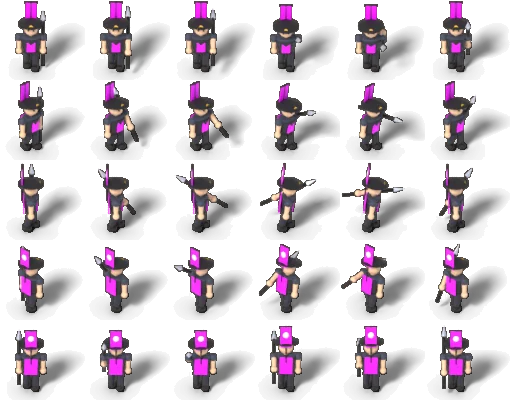
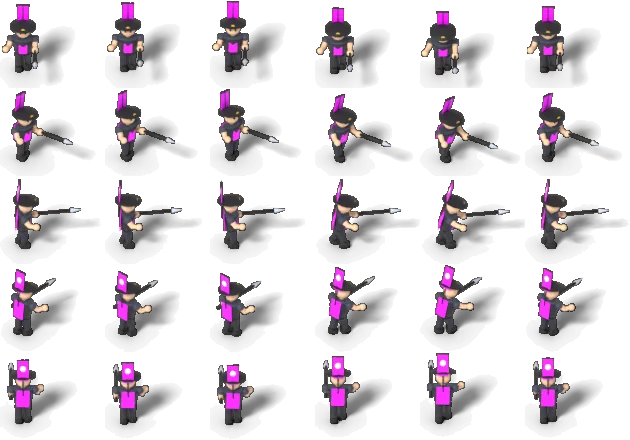
Prototipo 2026-11-24 · v72 (etapas de tropa: el gaucho del facón pasa a lancero y el nobushi a ashigaru; lanzas con estocada; jinetes que atacan sin mover el caballo)

diff --git a/index.html b/index.html
@@ -435,7 +435,8 @@ function iaPoblacion(ia) {
 function iaLimiteAldeanos(ia) { return 4 + 6 * ents.filter(e => e.equipo === ia.jug && e.tipo === CASA[ia.cultura] && vivo(e)).length; }
 function iaElegirUnidad(ia, permitidas = null) {
   // según su mezcla de tropas, entre las que puede entrenar ese edificio
-  const opciones = Object.entries(ia.mezcla).filter(([t]) => (!permitidas || permitidas.includes(t)) && desbloqueado(ia.jug, t));
+  const opciones = Object.entries(ia.mezcla).map(([t, w]) => [etapaActual(ia.jug, t), w])     // sin evolucionar, la etapa anterior
+    .filter(([t]) => (!permitidas || permitidas.includes(t)) && desbloqueado(ia.jug, t));
   const total = opciones.reduce((a, [, w]) => a + w, 0);
   if (!total) return null;
   let r = azar() * total, acum = 0;
@@ -475,8 +476,10 @@ function iaInvestigar(ia, dt) {
     if (t.length) { const x = t[Math.floor(azar() * t.length)]; if (!investigar(k, base, x, pagarIA) && !ia.quiereInv) ia.quiereInv = x.costo; }
   }
   for (const f of ents.filter(e => e.equipo === k && vivo(e) && e.obra == null && CIVS[ia.cultura].entrenaEn[e.tipo] && e.tipo !== PRINCIPAL[ia.cultura] && !e.investigando)) {
-    const m = mejorasDeTropa(k, f).filter(x => estadoInv(k, x)[0] === "lista" && (ia.mezcla[x.tropa] || 0) > 0);
-    if (m.length && azar() < 0.35) { const x = m[Math.floor(azar() * m.length)]; investigar(k, f, x, pagarIA); }
+    const m = mejorasDeTropa(k, f).filter(x => estadoInv(k, x)[0] === "lista" && (ia.mezcla[x.tropa] || ia.mezcla[TIPOS[x.tropa].evoluciona] || 0) > 0);
+    const evo = tiempo > 60 && m.find(x => x.desbloquea);               // pasar a la etapa siguiente va primero (pasado el primer minuto)
+    if (evo) { if (!investigar(k, f, evo, pagarIA) && !ia.quiereInv) ia.quiereInv = evo.costo; }
+    else if (m.length && azar() < 0.35) { const x = m[Math.floor(azar() * m.length)]; if (!x.desbloquea) investigar(k, f, x, pagarIA); }
   }
   for (const f of ents.filter(e => e.equipo === k && vivo(e) && e.obra == null && e.T.investiga && !e.investigando)) {
     const listas = INV.investigaciones.filter(x => x.rama === f.T.investiga && estadoInv(k, x)[0] === "lista");
@@ -659,7 +662,7 @@ let inicioElegido = "clasico", inicioUsado = "clasico";
 // velocidad del juego (para pruebas): la simulación corre varias veces por cuadro
 let velJuego = 1;
 const VEL_BASE = 1.8;                     // el ritmo "×1" (probado en celular: a 1 se sentía lento)
-const PALETA = ["aldeano", "lancero", "boleador", "jinete", "aldeano_jp", "enemigo", "arquero", "samurai", "samurai_jinete", "ariete", "catapulta"];
+const PALETA = ["aldeano", "facon", "lancero", "boleador", "jinete", "aldeano_jp", "nobushi", "enemigo", "arquero", "samurai", "samurai_jinete", "ariete", "catapulta"];
 const esJp = t => CIVS.jp.entrena.includes(t) || (!!TIPOS[t] && TIPOS[t].civ === "jp");
 let colocarTipo = null, colocarCant = 10;
 function generarMapa(tam, seed) {
@@ -991,7 +994,7 @@ function armarCreativo() {
   sep();
   for (const t of PALETA) {
     const eq = esJp(t) ? 1 : 0;
-    boton(TIPOS[t].nombre.replace(" a caballo", "<small>a caballo</small>").replace("Gaucho lancero", "Gaucho"), "eq" + eq,
+    boton(TIPOS[t].nombre.replace(" a caballo", "<small>a caballo</small>").replace("Gaucho lancero", "Lancero"), "eq" + eq,
       () => { colocarTipo = colocarTipo === t ? null : t; sel = []; armarCreativo(); if (colocarTipo) aviso("Tocá el suelo para colocar", 1200); }, colocarTipo === t);
   }
   sep();
@@ -1058,7 +1061,7 @@ function dibujarRangos() {
 // ------------------------------------------------------------------ métricas para reportes
 // Se juntan mientras se juega (barato: tres números por cuadro y un resumen por segundo) y se
 // envían a la base del prototipo con "Enviar reporte". Claude las lee desde su sesión.
-const VERSION_PROTO = "2026-11-23 · v71 (formaciones que miran hacia donde se desliza y sostienen su puesto; animales que se cazan con arco; paisanos que se reparten los recursos)";
+const VERSION_PROTO = "2026-11-24 · v72 (etapas de tropa: el gaucho del facón pasa a lancero y el nobushi a ashigaru; lanzas con estocada; jinetes que atacan sin mover el caballo)";
 const metr = { inicio: performance.now(), cuadros: [], segundos: [], todos: [], errores: [], trabas: [], golpesVacios: 0, caminaQuieto: 0, ultimoSeg: performance.now() };
 function medirCuadro(dtMs, simMs, dibMs) {
   metr.cuadros.push([dtMs, simMs, dibMs]);
@@ -3701,7 +3704,22 @@ function mejora(k, clave) {
   return base * multM(k, clave);
 }
 const costoEdificio = (k, tipo) => { const m = multM(k, "costoEdificios"); return Object.fromEntries(Object.entries(OBRA[tipo].costo).map(([r, v]) => [r, Math.round(v * m)])); };
-const desbloqueado = (k, tipo) => (INV.desbloqueo[tipo] || 1) <= edadDe(k) && (!TIPOS[tipo] || !TIPOS[tipo].permite || sumaM(k, "permite." + TIPOS[tipo].permite) > 0);
+const desbloqueado = (k, tipo) => (INV.desbloqueo[tipo] || 1) <= edadDe(k) && (!TIPOS[tipo] || !TIPOS[tipo].permite || sumaM(k, "permite." + TIPOS[tipo].permite) > 0)
+  && !(TIPOS[tipo] && TIPOS[tipo].evoluciona && evolucionado(k, tipo));
+// etapas de una tropa (v): el gaucho del facón pasa a gaucho lancero, el nobushi a ashigaru. La etapa vieja deja
+// de entrenarse cuando se investiga la nueva (su `permite`), y las que ya existen se convierten.
+const evolucionado = (k, tipo) => { const a = TIPOS[tipo].evoluciona; return !!a && sumaM(k, "permite." + (TIPOS[a].permite || a)) > 0; };
+const etapaPrevia = tipo => Object.keys(TIPOS).find(t => TIPOS[t].evoluciona === tipo) || null;
+// lo que un jugador entrena hoy en lugar de `tipo` (la etapa anterior, si todavía no evolucionó)
+const etapaActual = (k, tipo) => { const p = etapaPrevia(tipo); return p && !desbloqueado(k, tipo) && desbloqueado(k, p) ? p : tipo; };
+function evolucionar(k, de, a) {
+  for (const e of ents) if (e.equipo === k && e.tipo === de && !e.muerto) {
+    const parte = e.vida / vidaMax(e);
+    e.tipo = a; e.T = TIPOS[a]; e.vidaMax = vidaMaxDe(e); e.vida = parte * e.vidaMax;
+  }
+  for (const f of ents) if (f.equipo === k && f.cola) for (const q of f.cola) if (q.tipo === de) q.tipo = a;
+  for (const i of ias) if (i.jug === k) for (const q of Object.values(i.prod)) if (q && q.tipo === de) q.tipo = a;
+}
 // qué falta para poder usar un tipo: la edad o una investigación
 function faltaPara(k, tipo) {
   if ((INV.desbloqueo[tipo] || 1) > edadDe(k)) return "edad " + "I".repeat(INV.desbloqueo[tipo]);
@@ -3750,7 +3768,9 @@ function completarInvestigacion(k, x) {
   INVJ[k].hechas.add(x.id);
   aplicarEfectos(k, x.efectos || {});
   if (x.desbloquea) INVJ[k].suma["permite." + x.desbloquea] = 1;
-  if (k === 0) { aviso(`Investigación terminada: ${x.nombre}`, 2200); actualizarHud(true); }
+  const previa = x.desbloquea && TIPOS[x.desbloquea] && etapaPrevia(x.desbloquea);
+  if (previa) evolucionar(k, previa, x.desbloquea);
+  if (k === 0) { aviso(previa ? `${x.nombre} lista: el ${TIPOS[previa].nombre.toLowerCase()} ahora es ${TIPOS[x.desbloquea].nombre.toLowerCase()}` : `Investigación terminada: ${x.nombre}`, 2600); actualizarHud(true); }
 }
 function requisitoEdad(k) { return INV.edades[edadDe(k)] || null; }          // la próxima edad (o null)
 function avanzarEdad(k, f, pagarCon) {
@@ -4208,6 +4228,7 @@ function actualizarHud(forzar) {
     }
     else if (fabrica) {
       for (const t of civ.entrenaEn[fabrica.tipo]) {
+        if (etapaActual(0, t) !== t || (TIPOS[t].evoluciona && evolucionado(0, t))) continue;   // una sola etapa por tropa
         const ok = desbloqueado(0, t);
         boton(`${nombreCorto(t)}<small>${ok ? precio(costoTropa(0, t)) : "edad " + "I".repeat(INV.desbloqueo[t])}</small>`, () => entrenar(t, fabricas)).disabled = !ok;
       }
